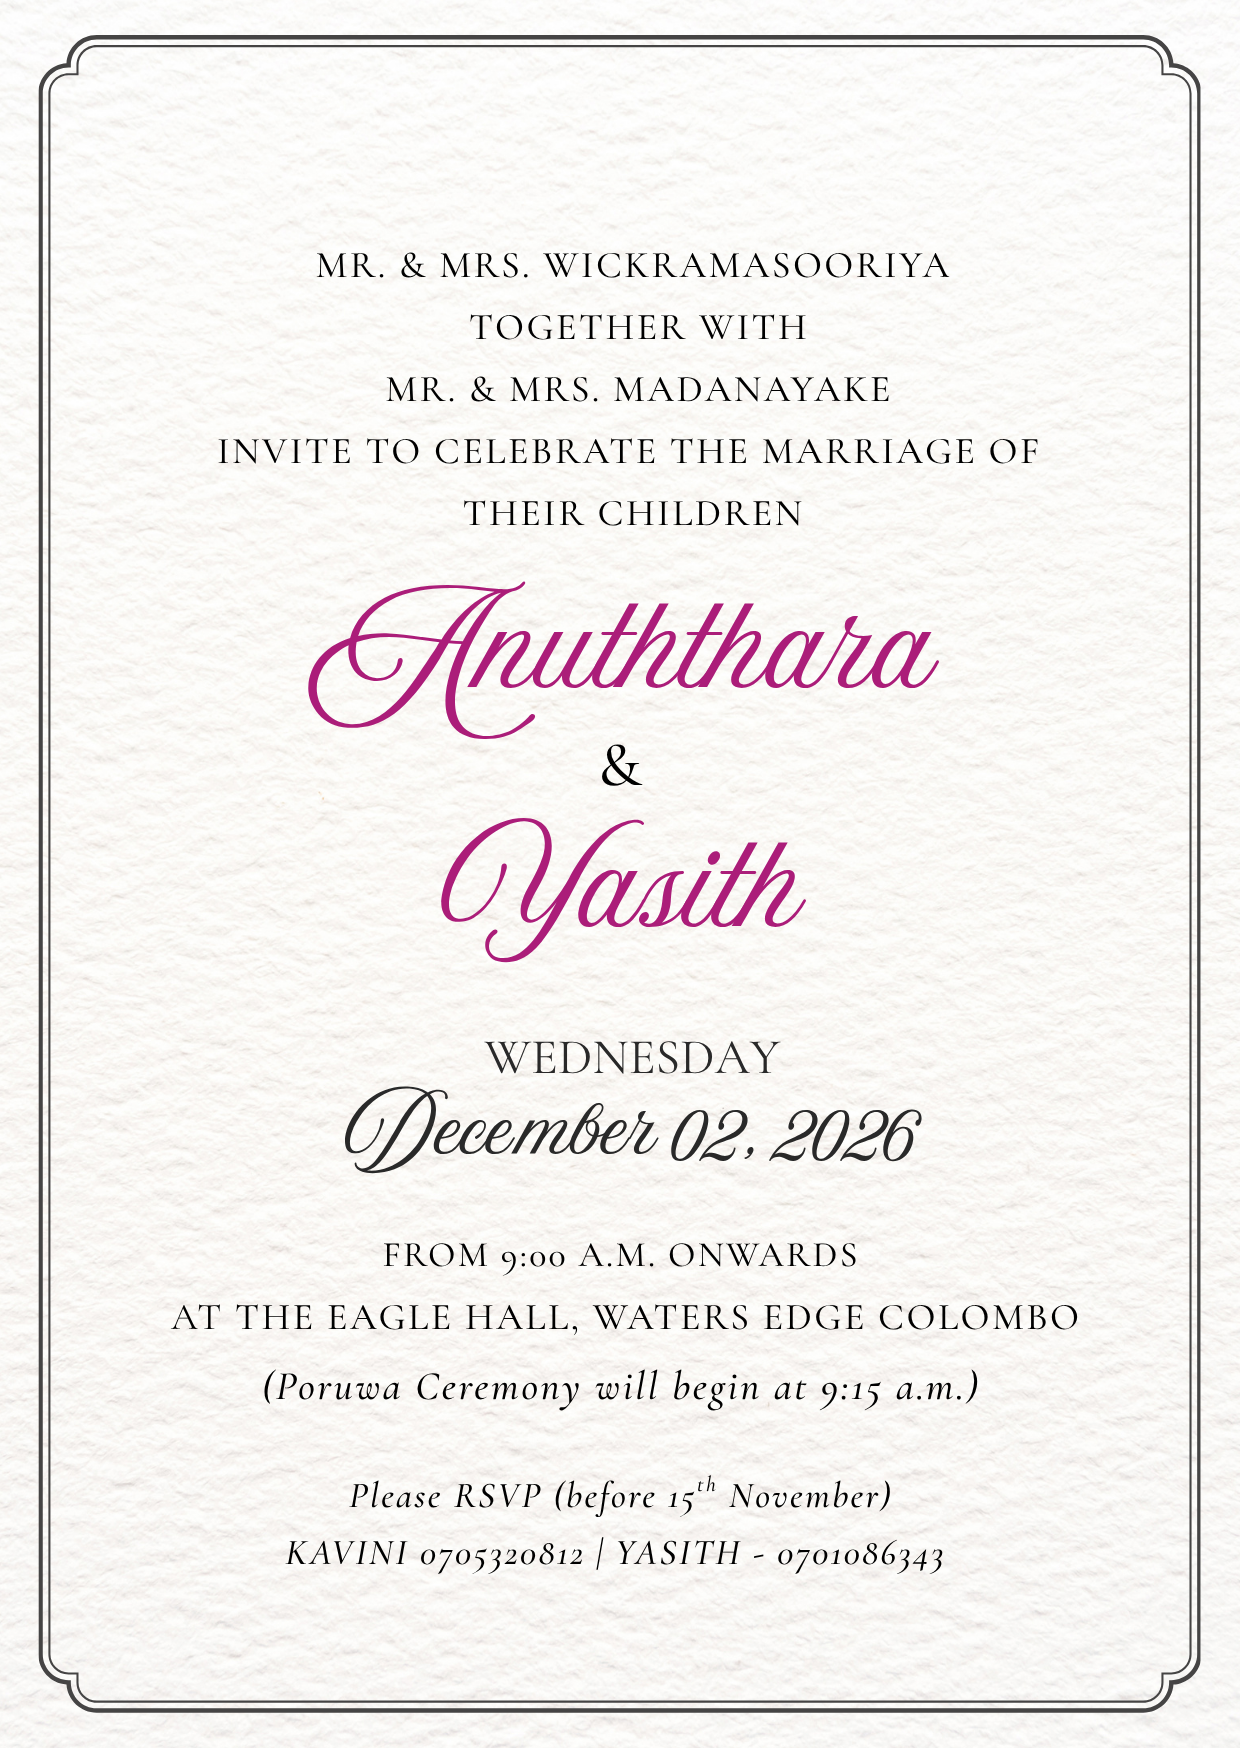
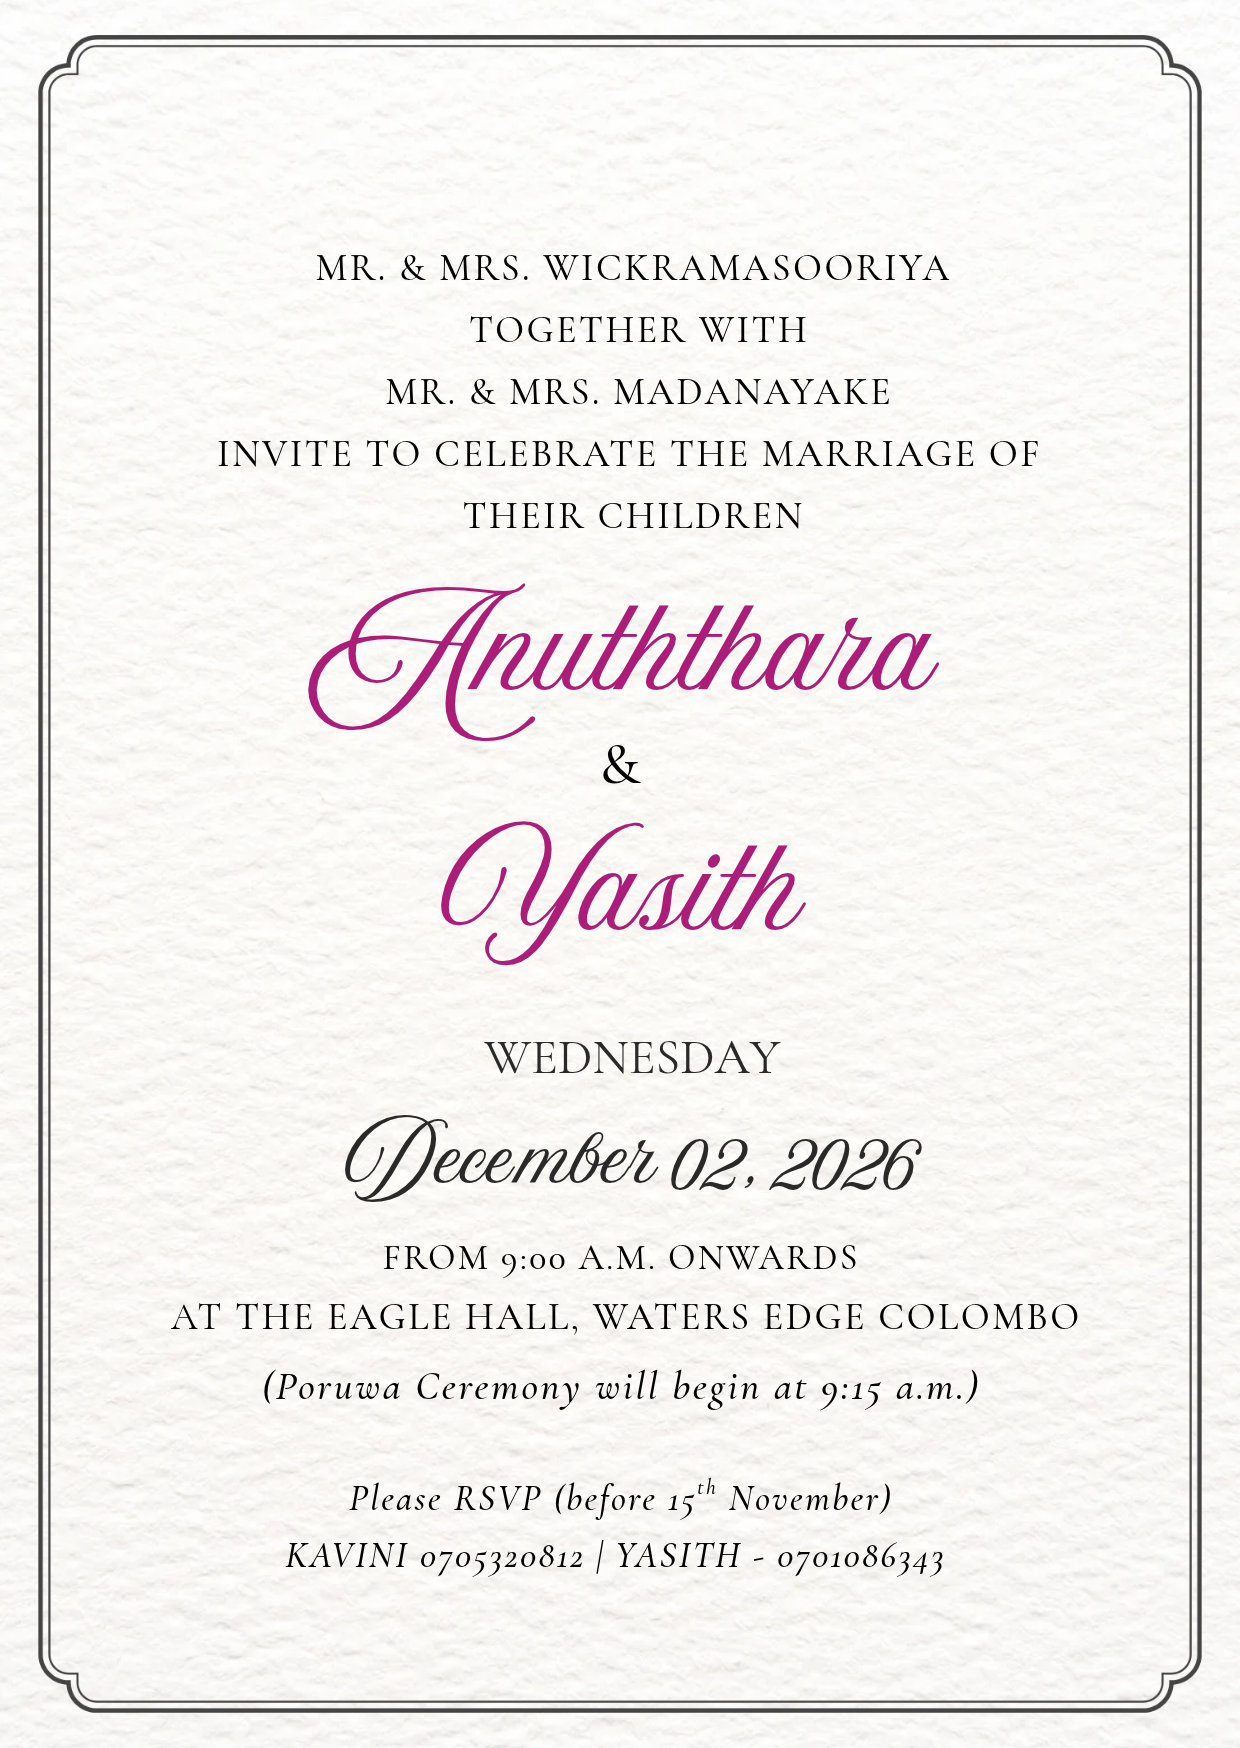
Refactor audio handling in App component, update card image, and enhance UI elements

diff --git a/src/App.js b/src/App.js
@@ -19,7 +19,17 @@ export default function App() {
   const [isPlaying, setIsPlaying] = useState(false);
   const [isMuted, setIsMuted] = useState(false);
 
-  const audioRef = useRef(new Audio("/music/background.mp3"));
+  const audioRef = useRef(null);
+
+  // Initialize audio object once safely
+  useEffect(() => {
+    if (!audioRef.current) {
+      audioRef.current = new Audio("/music/background.mp3");
+      audioRef.current.loop = true;
+      audioRef.current.preload = "auto";
+    }
+  }, []);
+
   const scrollIntervalRef = useRef(null);
   const resumeTimeoutRef = useRef(null);
 
@@ -63,18 +73,27 @@ export default function App() {
     }, 5000);
   }, [stopAutoScroll, startAutoScrollLoop]);
 
+  const playAudioSafe = () => {
+    if (audioRef.current) {
+      audioRef.current.play().then(() => {
+        setIsPlaying(true);
+      }).catch((e) => {
+        console.log("Mobile audio autoplay blocked, waiting for user gesture:", e);
+        setIsPlaying(false);
+      });
+    }
+  };
+
   const handleOpenWebsite = useCallback(() => {
     setStage("website");
-    audioRef.current.play().catch((e) => console.log("Audio play blocked:", e));
-    setIsPlaying(true);
+    playAudioSafe();
     triggerInitialAutoScroll();
   }, [triggerInitialAutoScroll]);
 
-  const handleStartHeartTransition = () => {
+  const handleStartHeartTransition = useCallback(() => {
     setStage("heart");
-    audioRef.current.play().catch((e) => console.log("Audio play blocked:", e));
-    setIsPlaying(true);
-  };
+    playAudioSafe();
+  }, []);
 
   useEffect(() => {
     if (stage !== "website") return;
@@ -99,19 +118,26 @@ export default function App() {
   }, [stage, triggerInitialAutoScroll, handleUserScrollInteraction, stopAutoScroll]);
 
   const handleOpenEnvelope = () => {
+    if (audioRef.current) {
+      audioRef.current.load();
+    }
     setStage("card");
   };
 
   const toggleMusic = () => {
+    if (!audioRef.current) return;
     if (isPlaying) {
       audioRef.current.pause();
+      setIsPlaying(false);
     } else {
-      audioRef.current.play();
+      audioRef.current.play().then(() => {
+        setIsPlaying(true);
+      }).catch((e) => console.log("Play blocked:", e));
     }
-    setIsPlaying(!isPlaying);
   };
 
   const toggleMute = () => {
+    if (!audioRef.current) return;
     const nextMutedState = !isMuted;
     audioRef.current.muted = nextMutedState;
     setIsMuted(nextMutedState);
@@ -125,7 +151,7 @@ export default function App() {
     }, 15000);
 
     return () => clearTimeout(timer);
-  }, [stage]);
+  }, [stage, handleStartHeartTransition]);
 
   return (
     <div
@@ -162,7 +188,7 @@ export default function App() {
             animate={{ opacity: 1 }}
             exit={{ opacity: 0, scale: 0.95, filter: "blur(10px)" }}
             transition={{ duration: 0.8 }}
-            className="fixed inset-0 z-[100] flex items-center justify-center p-4 bg-[#7e445f]/60 backdrop-blur-md overflow-y-auto cursor-pointer"
+            className="fixed inset-0 z-[100] flex items-center justify-center p-4 bg-gradient-to-br from-pink-100/40 via-white/50 to-pink-200/40 backdrop-blur-sm overflow-y-auto cursor-pointer"
             onClick={handleStartHeartTransition}
           >
             <motion.div
@@ -170,15 +196,15 @@ export default function App() {
               animate={{ scale: 1, y: 0 }}
               whileHover={{ scale: 1.01 }}
               transition={{ type: "spring", stiffness: 200, damping: 20 }}
-              className="w-full max-w-lg rounded-2xl overflow-hidden shadow-[0_25px_70px_rgba(126,68,95,0.4)] bg-[#fcfbf9] relative my-auto flex flex-col items-center p-0"
+              className="w-full max-w-lg rounded-2xl overflow-hidden shadow-[0_25px_70px_rgba(126,68,95,0.2)] bg-[#fcfbf9] relative my-auto flex flex-col items-center p-0"
             >
               <img
-                src="/photos/card2.png"
+                src="/photos/card1.png"
                 alt="Wedding Invitation Card"
                 loading="eager"
                 fetchPriority="high"
                 decoding="async"
-                className="w-full h-auto object-contain rounded-xl max-h-[85vh]"
+                className="w-full h-auto object-contain rounded-xl max-h-[85vh] border-2 border-[#7e445f]/20"
               />
               <motion.div 
                 animate={{ opacity: [0.4, 1, 0.4] }}
